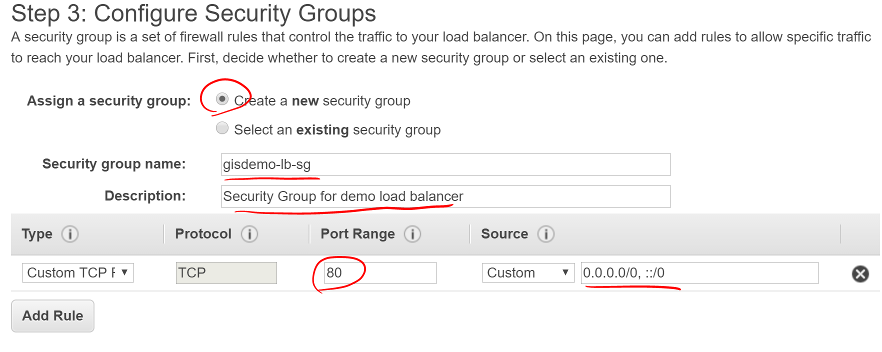
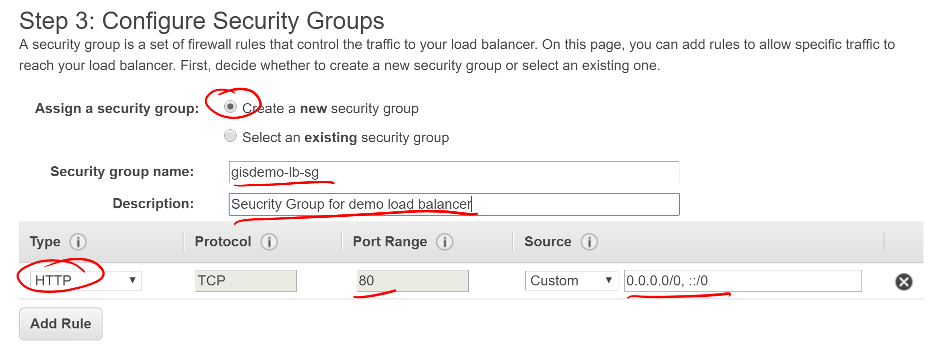
Complete initial draft of LB cloud app

diff --git a/studios/AWS2/README.md b/studios/AWS2/README.md
@@ -356,59 +356,121 @@ After creating the instance, return to the EC2 Instances dashboard. Select your 
 
 ## Set Up Load Balancing
 
-Create new public VPC subnet
+In order to connect a load balancer (LB), you need to have two public subnets in different availability zones. Return to the VPC Subnet dashboard.
+
+- Click "Create Subnet"
+- Provide a useful name for the new subnet
+- Select your VPC
+- Pick a different availability zone than your other public subnet
+- Pick a new CIDR block
+- Click "Yes, Create"
 
 ![](../../materials/week05/lb-cloud/lb/lb-create-public-subnet.png)
 
-Select route table
+This new subnet is originally created as a private subnet, so you'll have to change its route table to allow connections with the internet.
+
+- Click the "Route Table" tab
+- Click "Edit"
 
 ![](../../materials/week05/lb-cloud/lb/public-subnet-route-table.png)
 
-Switch to public route table, includes internet gateway
+- Change the Route Table selection to one with a target that starts with `igw`. This is your VPC's internet gateway.
+  - An Internet Gateway allows communication between instances in your VPC and the internet.
+- Click "Save"
 
 ![](../../materials/week05/lb-cloud/lb/change-to-public-route-table.png)
 
-Select load balancers in sidebar
+With the new public subnet in place, you can now create your LB.
+
+- Return to the EC2 Dashboard
+- Select "Load Balancers" in the sidebar
+- Click "Create Load Balancer"
 
 ![](../../materials/week05/lb-cloud/lb/load-balancers-sidebar.png)
 
-Select application load balancer
+- Find the Application Load Balancer
+- Click "Create"
 
 ![](../../materials/week05/lb-cloud/lb/application-load-balancer.png)
 
-Create internet facing load balancer on port 80
+- Provide a useful name for your LB
+- Select an internet-facing LB
+- Set your LB protocol to `HTTP` and port to `80`
 
 ![](../../materials/week05/lb-cloud/lb/basic-lb-configuration.png)
 
-Configure lb routing with new target group pointing to internal port 8080
-
-![](../../materials/week05/lb-cloud/lb/configure-lb-routing.png)
-
-Select public availablility zones for load balancer instance
+- Under "Availability Zones" select your VPC
+- Select the two public subnets you created
+- Click "Next: Configure Security Settings"
 
 ![](../../materials/week05/lb-cloud/lb/lb-availability-zones.png)
 
-Configure new security group for load balancer to accept open traffic on port 80
+The "Configure Security Settings" screen will likely encourage you to improve the LB's security. This is because you opted to only allow HTTP connections. This is sufficient for the studio, but you should enable HTTPS for every service that can support it in an enterprise environment. Click "Next: Configure Security Groups".
+
+You will be presented with a screen similar to one you used when creating your instances. This will allow you to configure the firewall to manage access to your LB.
+
+- Create a new security group
+- Give the group a useful name and description
+- Select type `HTTP` and verify port 80 is selected
+- Make a custom source for 0.0.0.0/0, ::/0
+  - This allows for all IPv4 and IPv6 sources to connect through this LB
+- Click "Next: Configure Routing"
 
 ![](../../materials/week05/lb-cloud/lb/new-lb-security-group.png)
 
-Select your application instances to register them to the lb
+The next screen allows you to define a target group for the routing behavior of the LB. This will determine what protocol and internal port it uses to communicate with your application servers.
+
+- Select "New target group"
+- Give your new target group a useful name
+- Select port `8080` since that is the port Airwaze set up for listening
+- Select `instance` target type
+- Click "Next: Register Targets"
+
+![](../../materials/week05/lb-cloud/lb/configure-lb-routing.png)
+
+Now, you need to register your application instances to your LB so it can route traffic correctly.
+
+- Select your instances in the "Instances" section
+- Verify they are set to register for port 8080
+- Click "Add to registered" to add them to the LB
+- Click "Save"
 
 ![](../../materials/week05/lb-cloud/lb/register-instances-to-lb.png)
 
-Monitor load balancer provisioning
+At this point, AWS will begin configuring the LB. Find and note the DNS name they have assigned your LB.
 
 ![](../../materials/week05/lb-cloud/lb/load-balancer-instance.png)
 
-Change appication instance security group to only allow traffic from within the VPC
+While the LB is starting up, you can configure your application instances to stop listening to the public internet and only to internal traffic.
+
+- Return to the EC2 Security Groups Dashboard
+- Find your instance security group
+- Remove the SSH rule
+- Change the Source for the 8080 rule to listen only to your internal subnet
+- Click "Save"
 
 ![](../../materials/week05/lb-cloud/lb/make-instance-sg-internal-only.png)
 
-Open http://demo-lb-instance.us-east-2.elb.amazonaws.com in the browser and see the application
+Now it's time to see the result of your hard work:
 
+Open http://demo-lb-instance.us-east-2.elb.amazonaws.com in the browser and see the application running.
 
-Test traffic balancing.  Test one app going down.
+The real power in a load balancer is it can route traffic away from unhealthy instances. Time to test that out.
+
+- Return to the EC2 Instances Dashboard
+- Locate your application instances
+- Select one instance
+- Click "Actions" -> "Instance State" -> "Stop"
+- Wait for the instance state to switch to Stop
+- Refresh the browser and see the application still works
+- Stop your other instance
+- Refresh the browser and see the application no longer works
+- Click "Actions" -> "Instance State" -> "Start" to restart one of your instances
+- Refresh the browser and see the application return to a working state
+  - This step may take a while as the instance has to return to a good state and the LB has to verify the instance is healthy again before routing traffic
+
+Congratulations! You have successfully created a load-balanced application in the cloud.
 
 ## Bonus Mission
 
-Bonus: Provision an SSH bastion and make the application servers only accessible via http.
+Bonus: Provision an SSH bastion to give you a way to connect to the private application servers.
